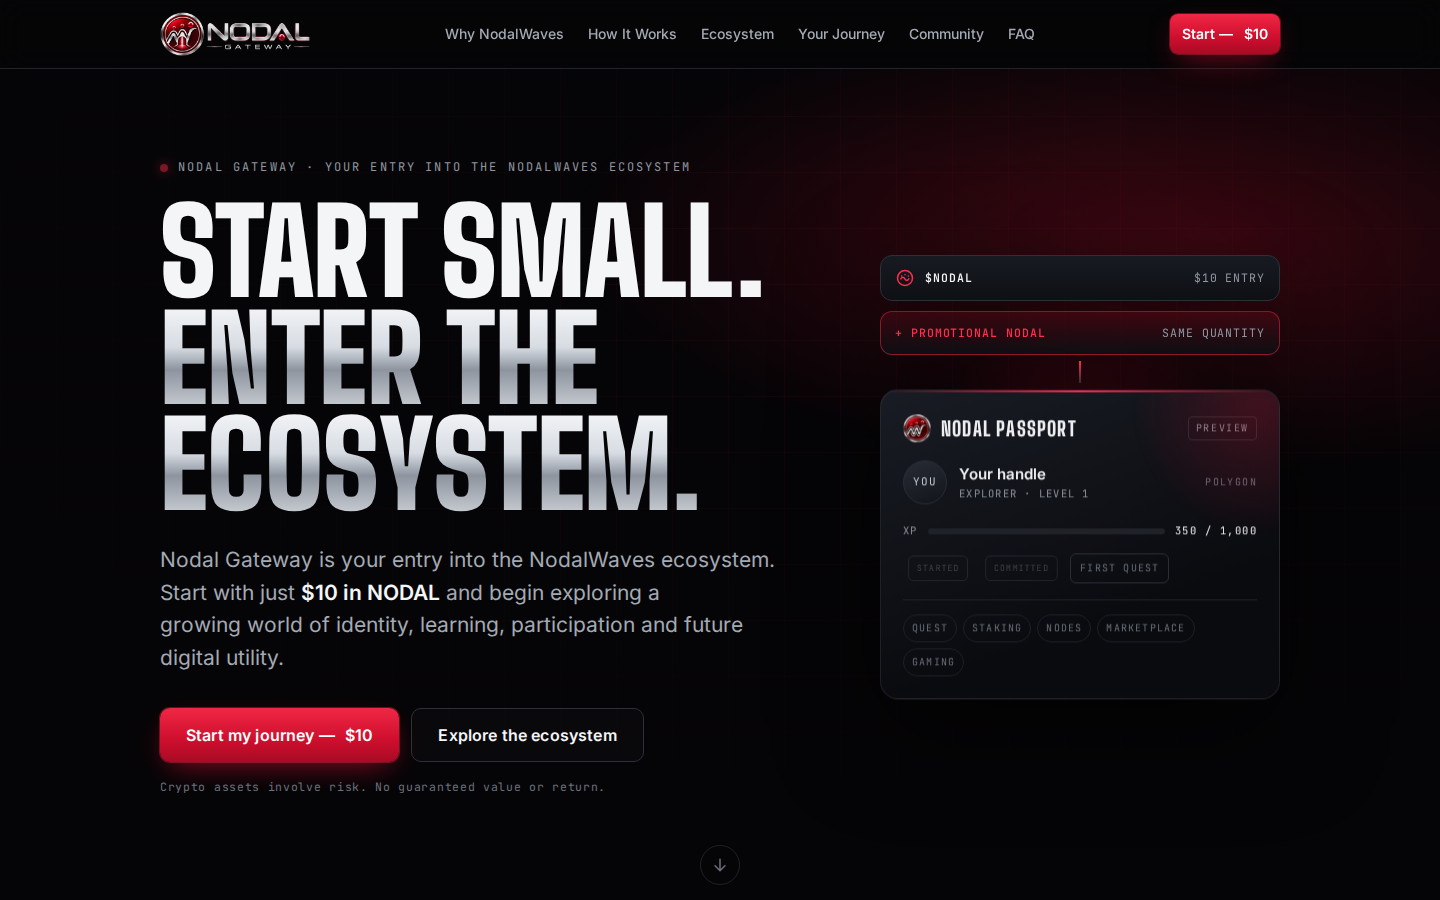
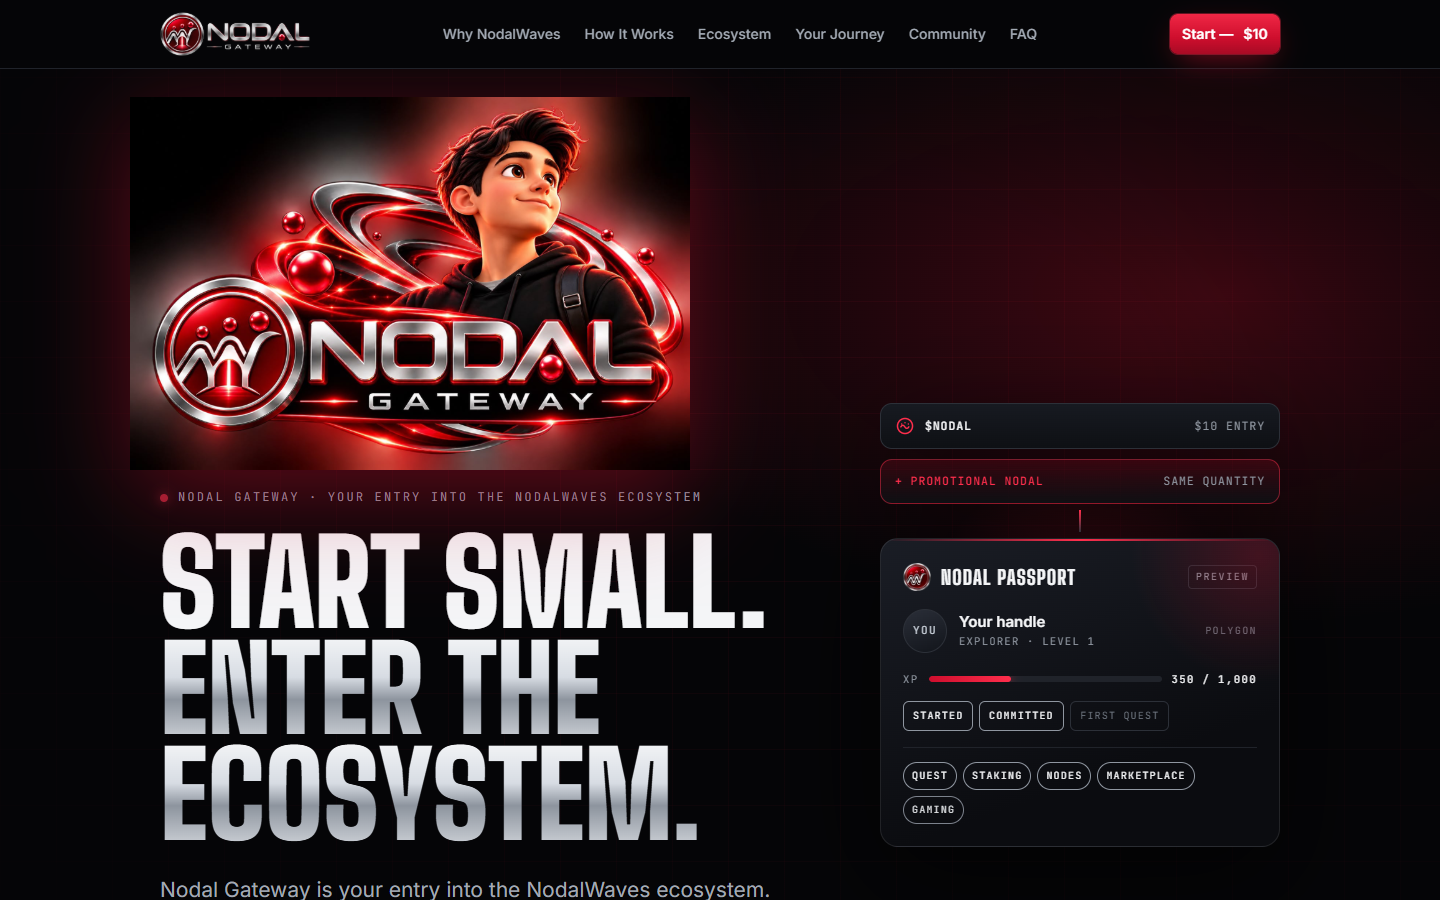
Add the Nodal Gateway key visual to the hero

diff --git a/index.html b/index.html
@@ -85,6 +85,7 @@
 <section class="hero" id="top">
   <div class="wrap hero-grid">
     <div class="hero-copy">
+      <img class="hero-lockup" src="assets/gateway-logo-900.png" alt="Nodal Gateway" width="900" height="600" fetchpriority="high">
       <p class="eyebrow"><span class="dot" aria-hidden="true"></span>Nodal Gateway · Your entry into the NodalWaves ecosystem</p>
       <h1 class="display">Start small.<br><span class="chrome">Enter the ecosystem.</span></h1>
       <p class="lede">Nodal Gateway is your entry into the NodalWaves ecosystem. Start with just <b><span data-cfg="entry.amount">$10</span> in NODAL</b> and begin exploring a growing world of identity, learning, participation and future digital utility.</p>

diff --git a/styles.css b/styles.css
@@ -554,3 +554,7 @@ input{font:inherit}
   .reveal-pending{opacity:1;transform:none}
   .btn{transition:none}
 }
+
+/* Nodal Gateway key visual in the hero */
+.hero-lockup{display:block;width:min(440px,100%);height:auto;margin:-10px 0 14px -22px;filter:drop-shadow(0 24px 50px rgba(206,14,45,.45))}
+@media (min-width:1024px){.hero-lockup{width:min(560px,100%);margin:-28px 0 18px -30px}}
